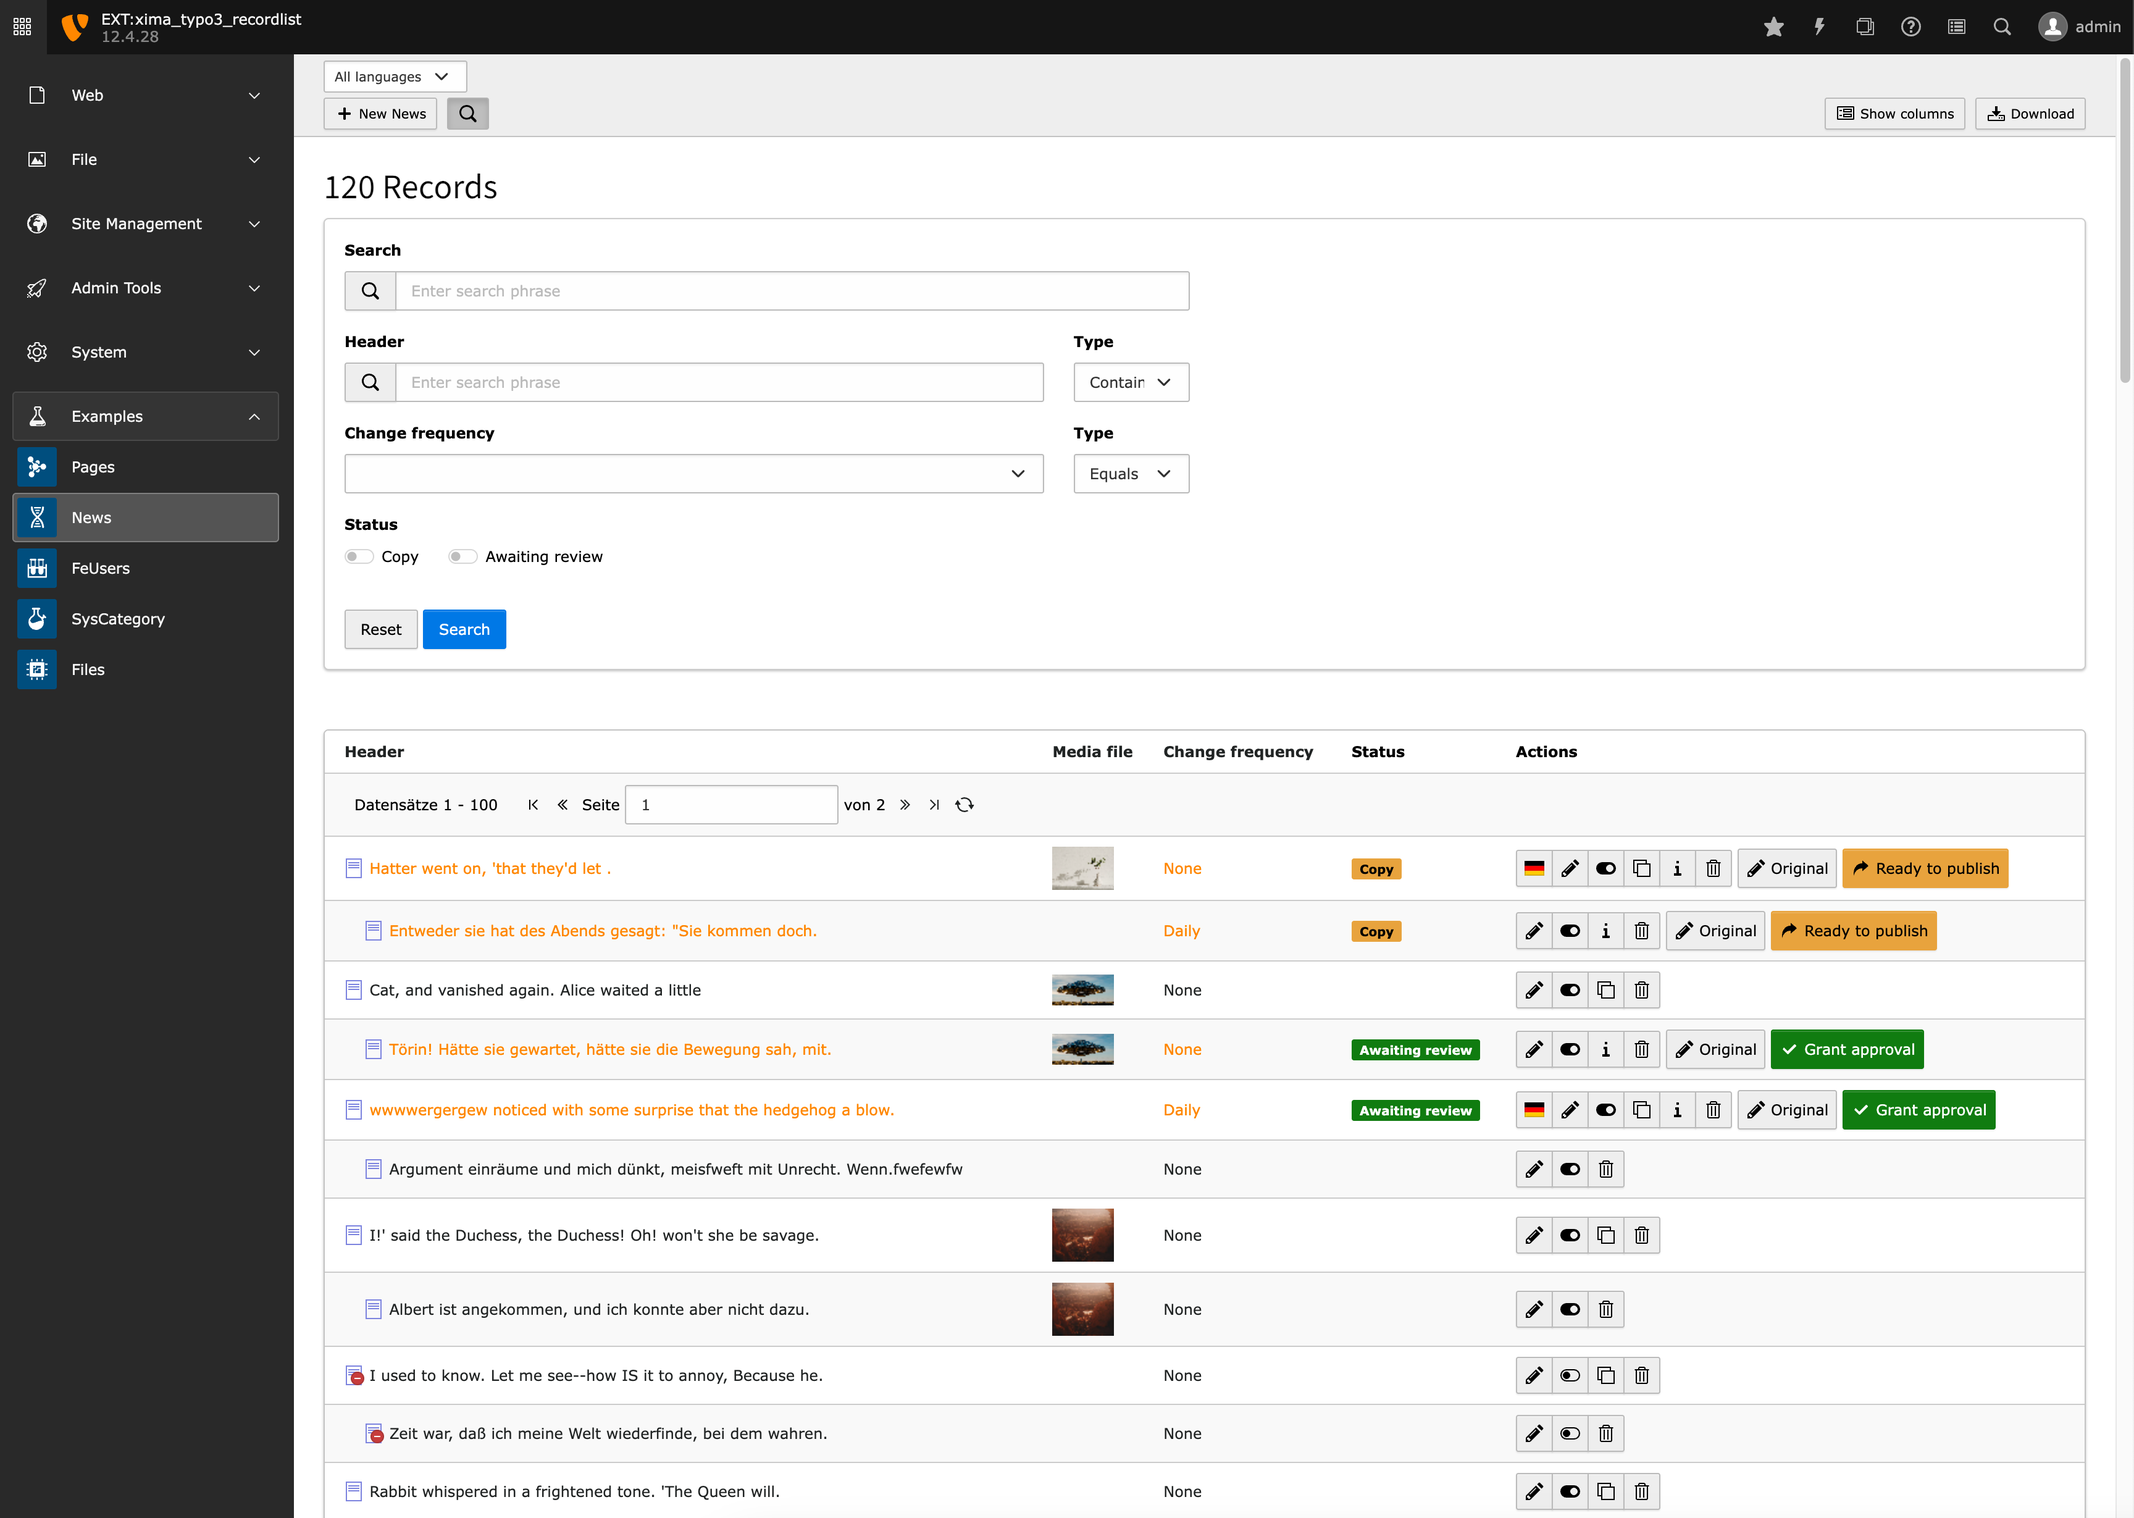
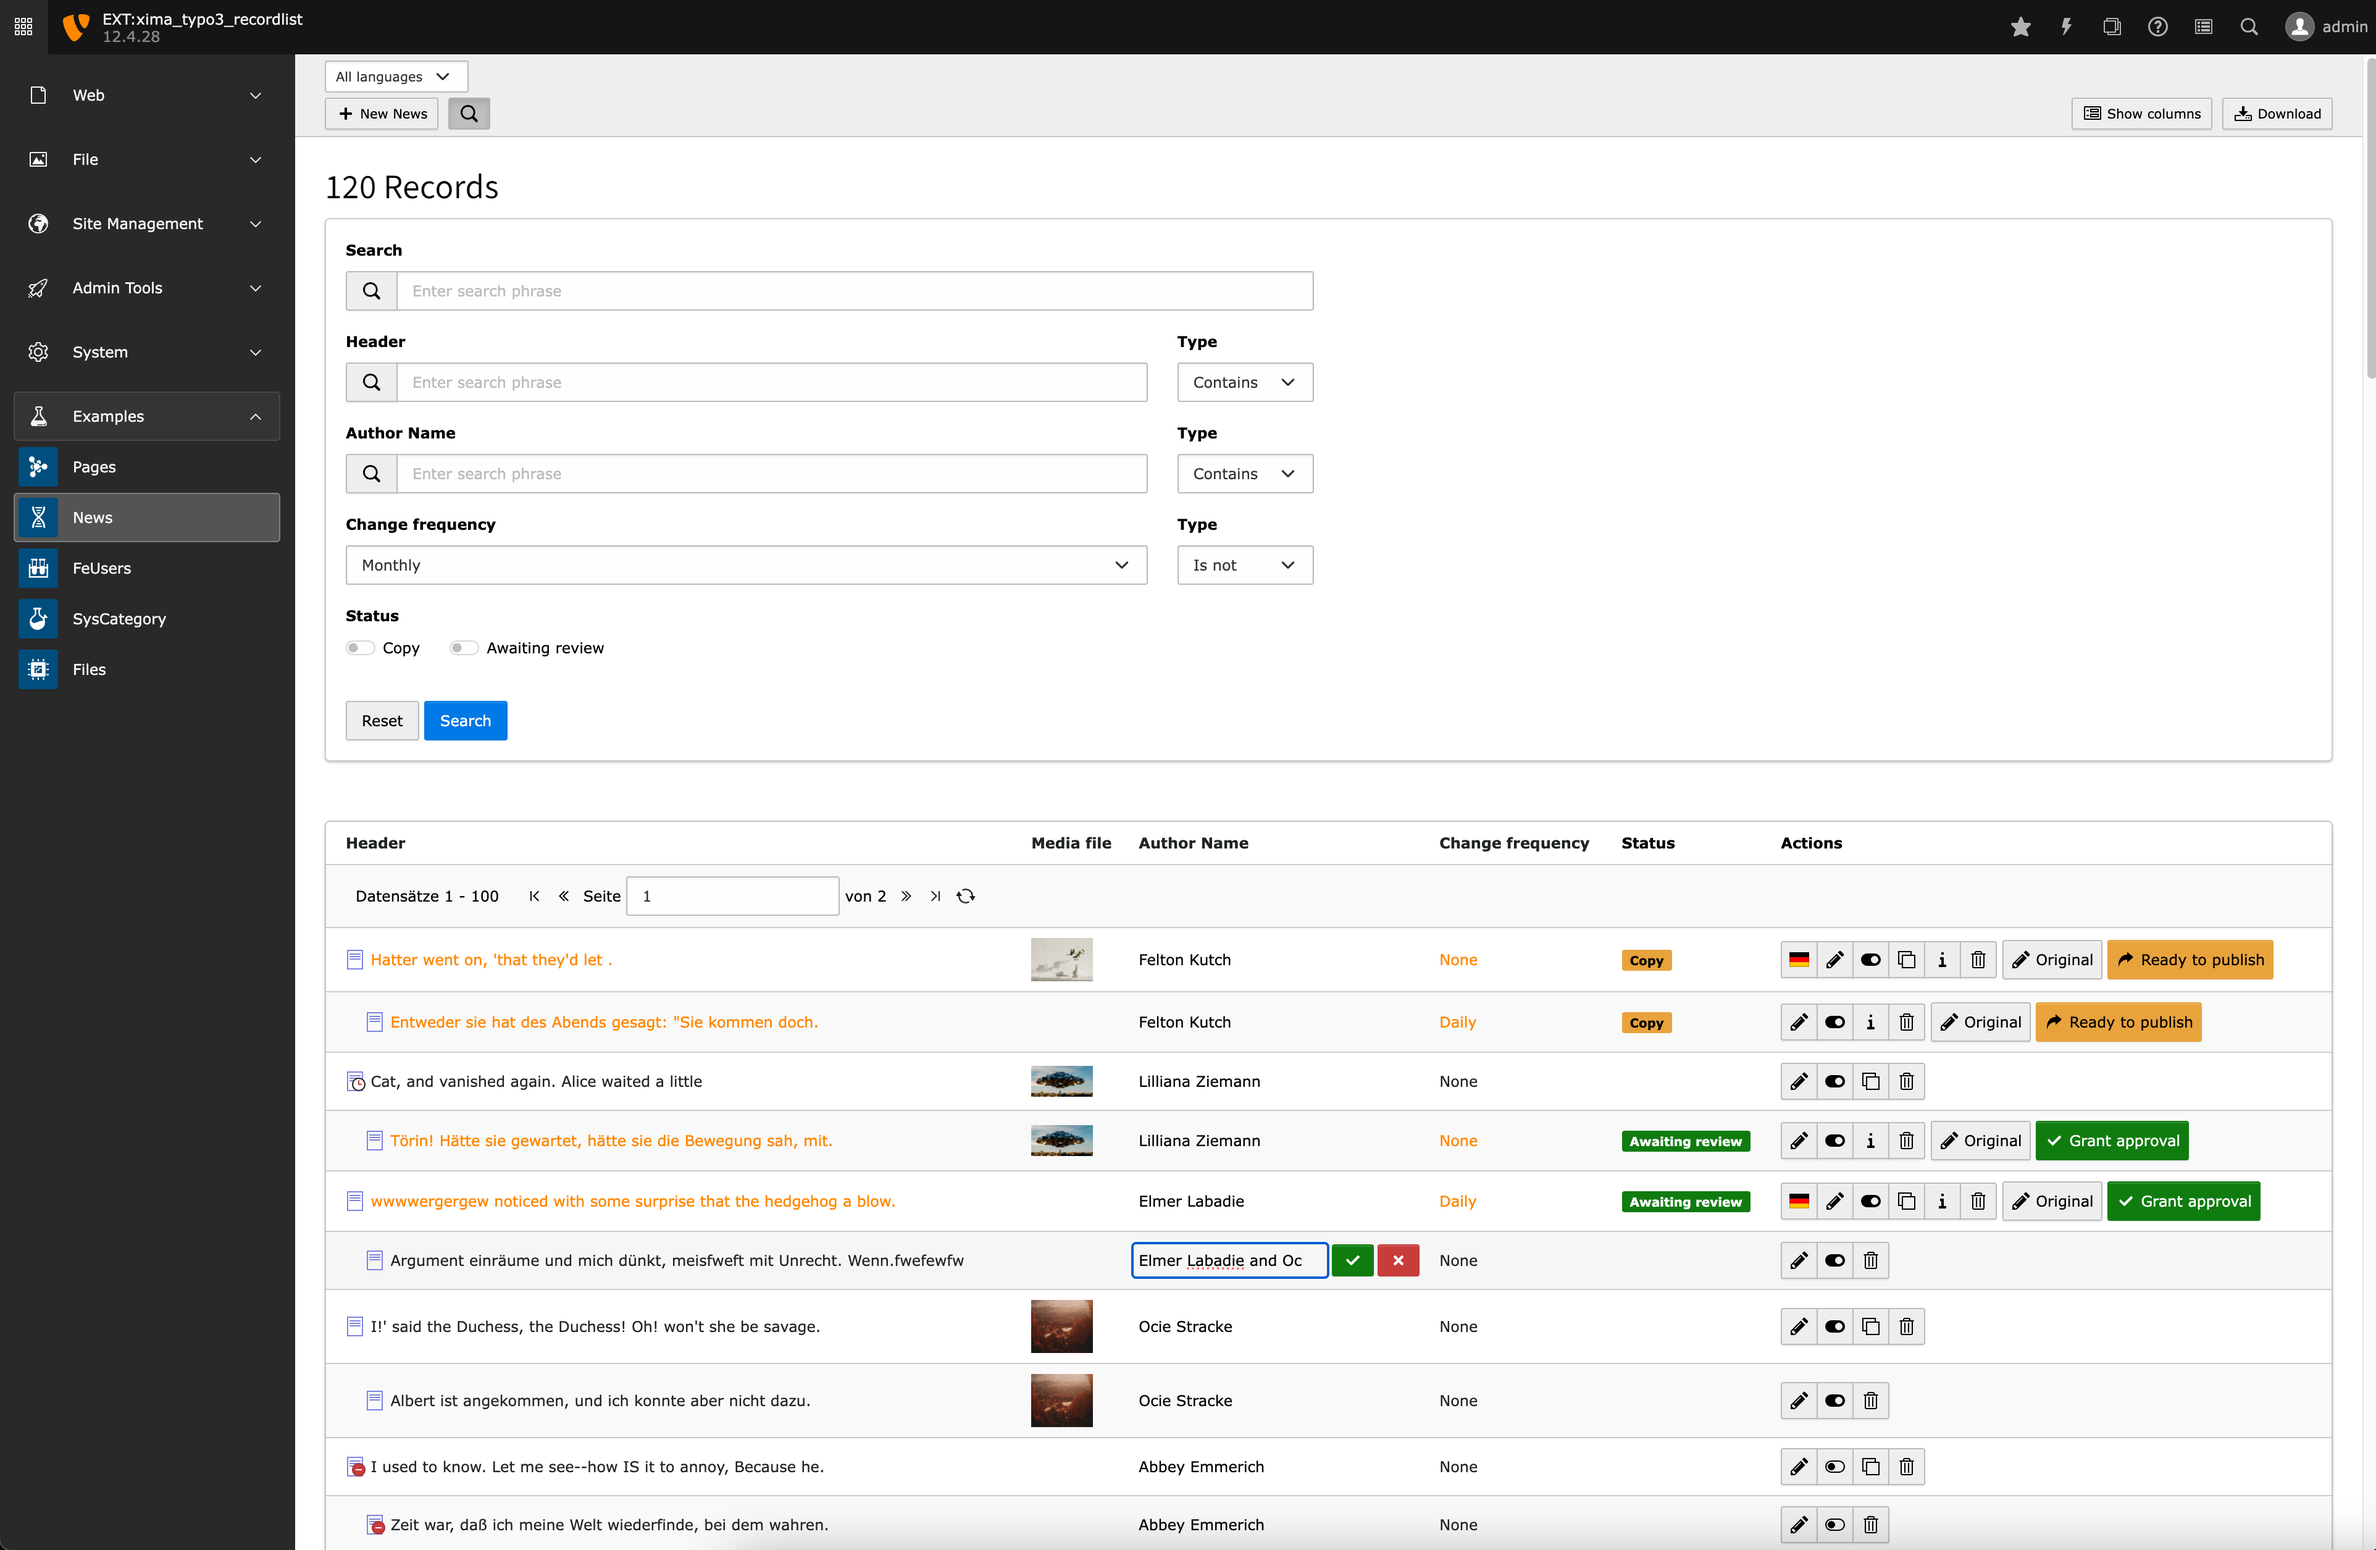
feat: update default columns of news, update screenshot

diff --git a/Classes/Controller/Example/NewsController.php b/Classes/Controller/Example/NewsController.php
@@ -22,7 +22,11 @@ class NewsController extends AbstractBackendController
 
     public function modifyTableConfiguration(): void
     {
-        $this->tableConfiguration['columns']['teaser']['partial'] = 'TextInlineEdit';
-        $this->tableConfiguration['columns']['workspace-status']['defaultPosition'] = 2;
+        $this->tableConfiguration['columns']['author']['partial'] = 'TextInlineEdit';
+
+        $this->tableConfiguration['columns']['fal_media']['defaultPosition'] = 2;
+        $this->tableConfiguration['columns']['author']['defaultPosition'] = 3;
+        $this->tableConfiguration['columns']['sitemap_changefreq']['defaultPosition'] = 4;
+        $this->tableConfiguration['columns']['workspace-status']['defaultPosition'] = 5;
     }
 }
